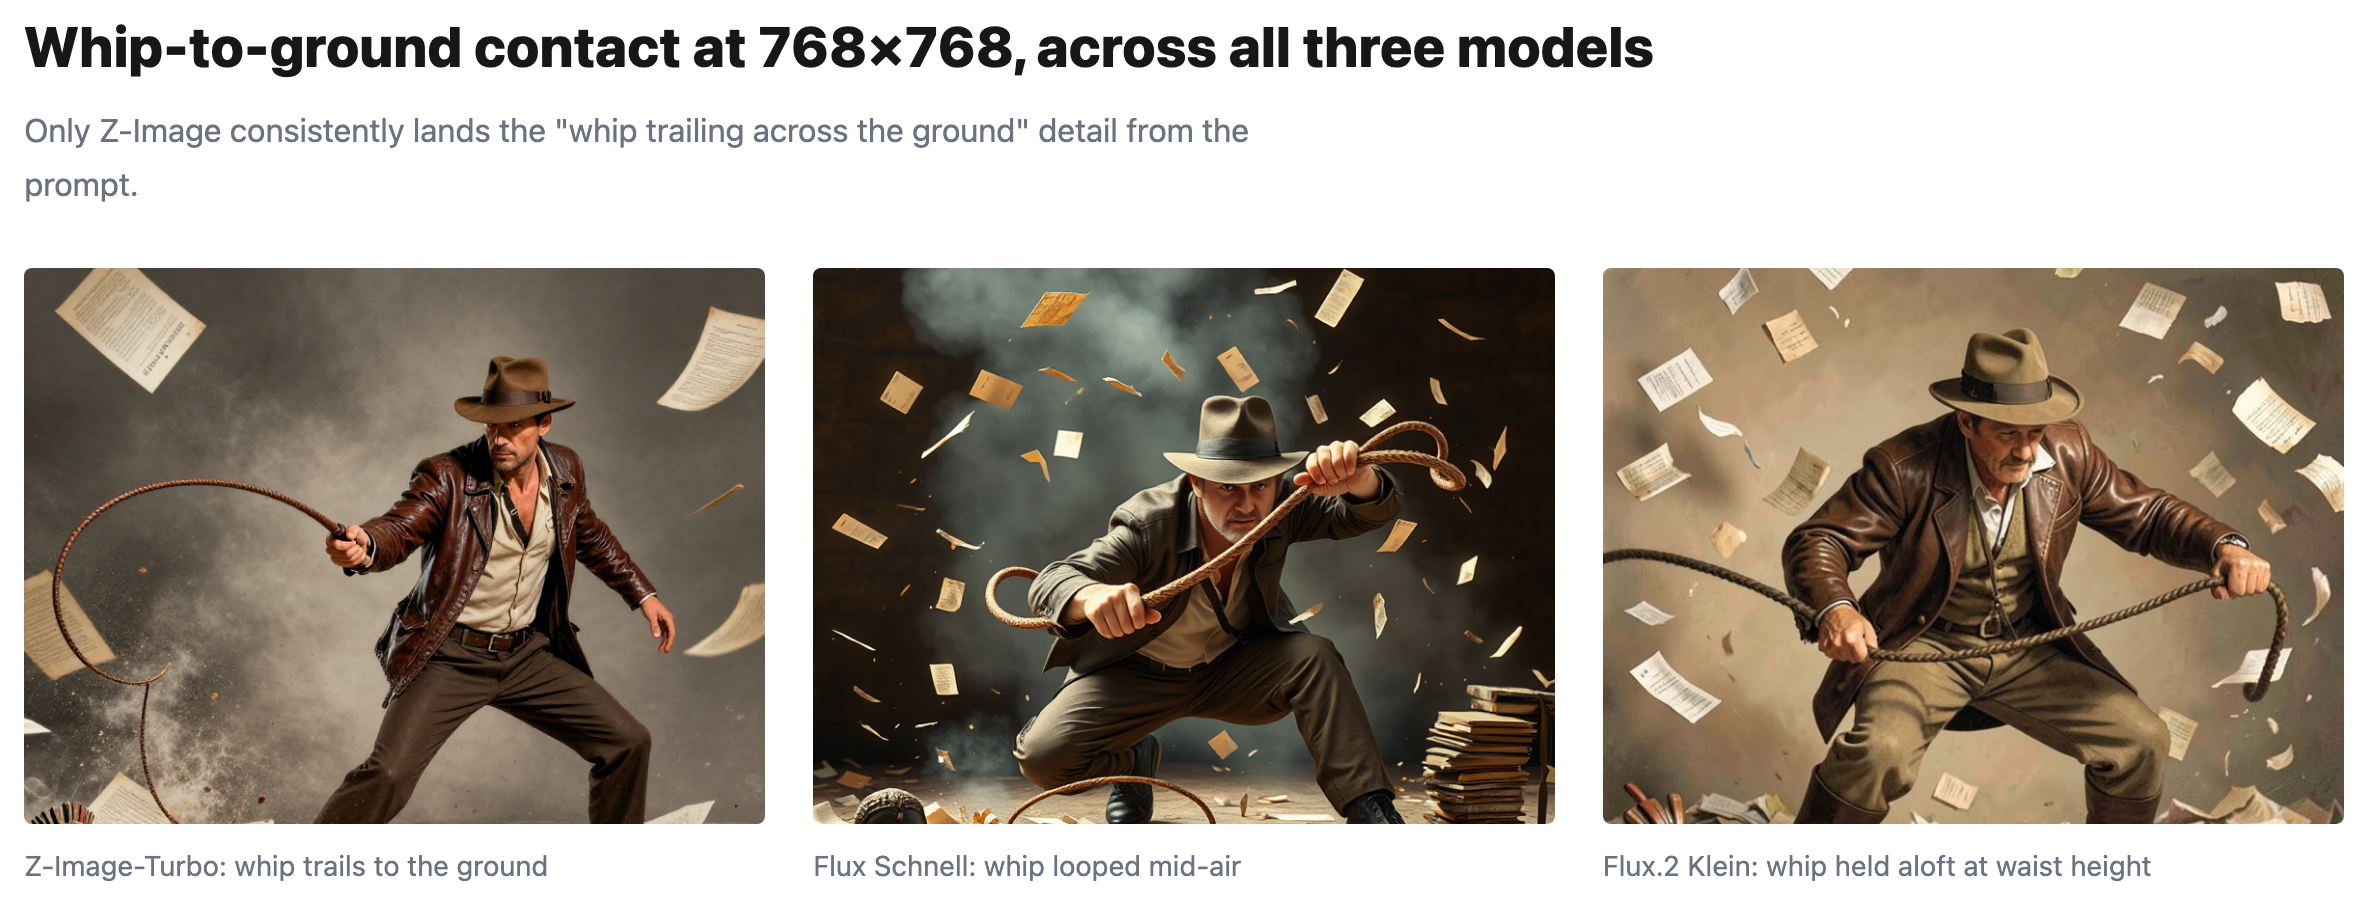
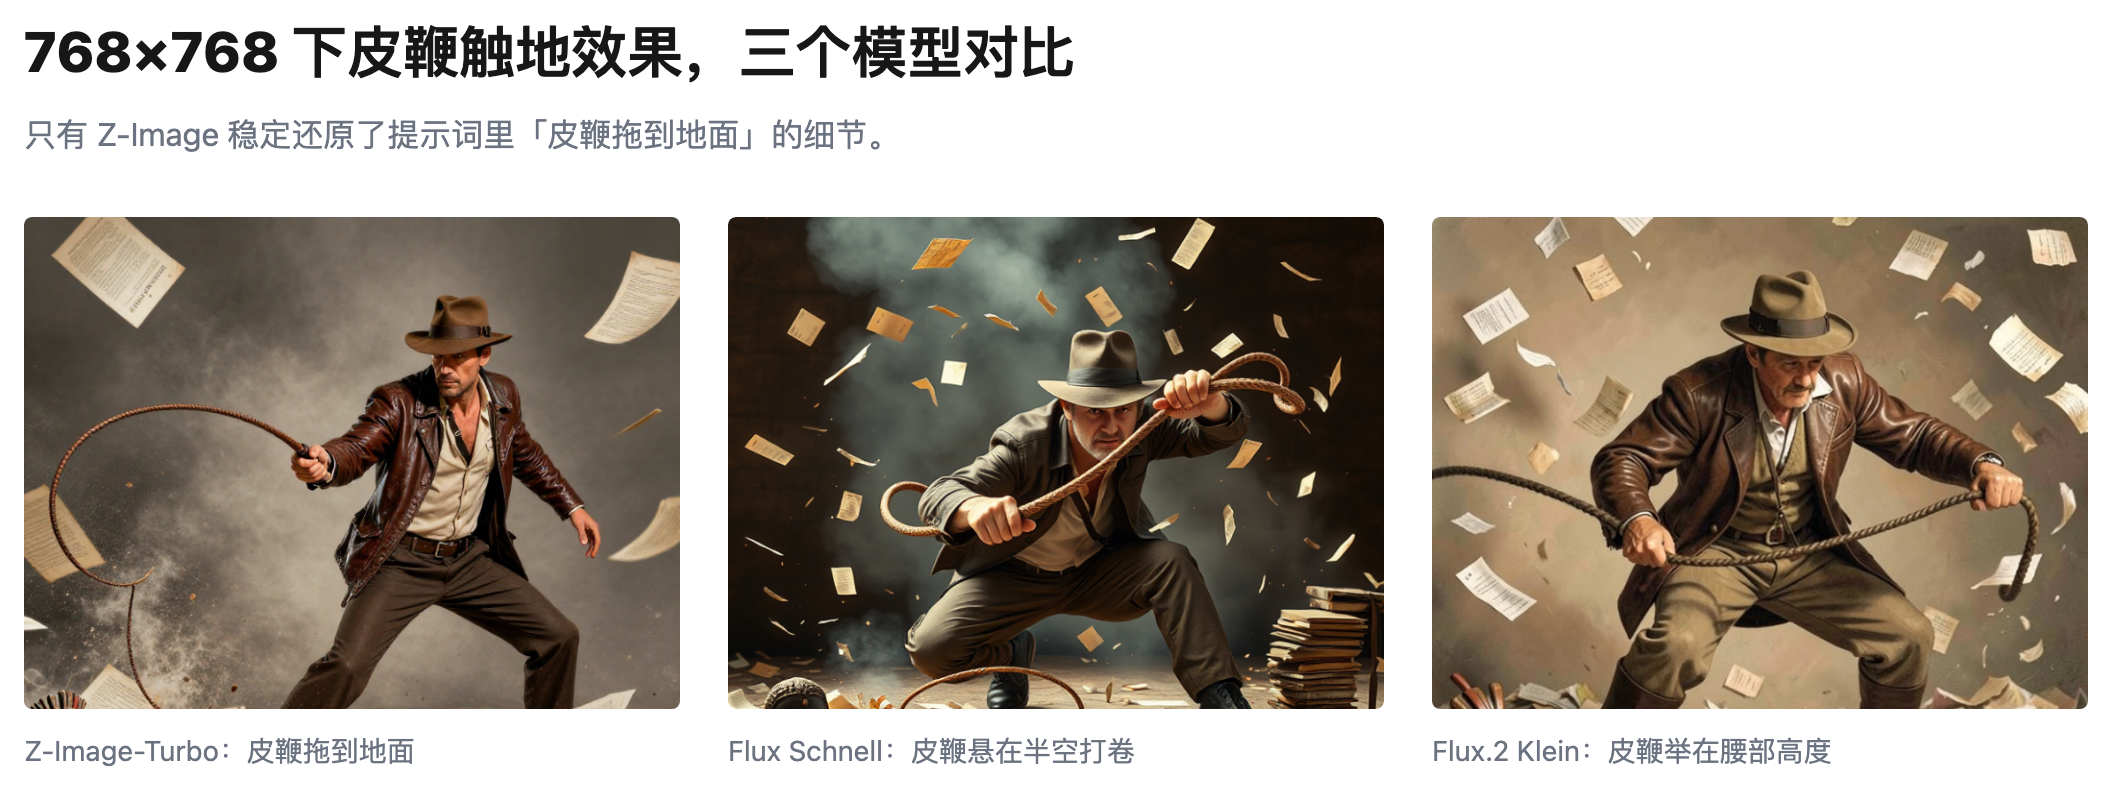
[_gala] 图片网格转中文：speed-quality-grid 和 whip-ground-grid 两张网格图是双语版本时期做的，标题、副标题和 caption 仍是英文，draft.md 已确定只发中文版，文字与正文语言不一致；照片内容原样保留（直接从原图裁出三张对应照片复用），只重新渲染文字部分

diff --git a/articles/resolution-size-sweep/whip-ground-grid.source.html b/articles/resolution-size-sweep/whip-ground-grid.source.html
@@ -1,0 +1,40 @@
+<!doctype html>
+<html lang="zh">
+<head>
+<meta charset="utf-8">
+<style>
+  body{margin:0;font-family:-apple-system,BlinkMacSystemFont,"PingFang SC","Microsoft YaHei","Helvetica Neue",Arial,sans-serif;background:#ffffff;color:#171717;}
+</style>
+</head>
+<body style="display:inline-block">
+<div style="width: 1160px; box-sizing: border-box; background: #ffffff; padding: 64px; display: flex; flex-direction: column; gap: 28px;">
+
+  <div style="display: flex; flex-direction: column; gap: 8px;">
+    <h2 style="margin: 0; font-size: 28px; font-weight: 800; color: #171717;">768×768 下皮鞭触地效果，三个模型对比</h2>
+    <p style="margin: 0; font-size: 16px; color: #6B7280; max-width: 640px; line-height: 1.7;">只有 Z-Image 稳定还原了提示词里「皮鞭拖到地面」的细节。</p>
+  </div>
+
+  <div style="display: grid; grid-template-columns: repeat(3, minmax(0, 1fr)); gap: 24px;">
+    <figure style="margin: 0; display: flex; flex-direction: column; gap: 10px;">
+      <div style="width: 100%; aspect-ratio: 4/3; border-radius: 4px; overflow: hidden;">
+        <img src="file:///private/tmp/claude-501/-Users-husongtao-Projects-newsletters/0a768223-badc-4866-904d-b42b9850581c/scratchpad/gala-src-whip/1-zimage.png" style="width: 100%; height: 100%; object-fit: cover; object-position: top; display: block;">
+      </div>
+      <figcaption style="font-size: 14px; color: #6B7280; line-height: 1.6;">Z-Image-Turbo：皮鞭拖到地面</figcaption>
+    </figure>
+    <figure style="margin: 0; display: flex; flex-direction: column; gap: 10px;">
+      <div style="width: 100%; aspect-ratio: 4/3; border-radius: 4px; overflow: hidden;">
+        <img src="file:///private/tmp/claude-501/-Users-husongtao-Projects-newsletters/0a768223-badc-4866-904d-b42b9850581c/scratchpad/gala-src-whip/2-schnell.png" style="width: 100%; height: 100%; object-fit: cover; object-position: top; display: block;">
+      </div>
+      <figcaption style="font-size: 14px; color: #6B7280; line-height: 1.6;">Flux Schnell：皮鞭悬在半空打卷</figcaption>
+    </figure>
+    <figure style="margin: 0; display: flex; flex-direction: column; gap: 10px;">
+      <div style="width: 100%; aspect-ratio: 4/3; border-radius: 4px; overflow: hidden;">
+        <img src="file:///private/tmp/claude-501/-Users-husongtao-Projects-newsletters/0a768223-badc-4866-904d-b42b9850581c/scratchpad/gala-src-whip/3-klein.png" style="width: 100%; height: 100%; object-fit: cover; object-position: top; display: block;">
+      </div>
+      <figcaption style="font-size: 14px; color: #6B7280; line-height: 1.6;">Flux.2 Klein：皮鞭举在腰部高度</figcaption>
+    </figure>
+  </div>
+
+</div>
+</body>
+</html>

diff --git a/articles/resolution-size-sweep/speed-quality-grid.source.html b/articles/resolution-size-sweep/speed-quality-grid.source.html
@@ -1,0 +1,40 @@
+<!doctype html>
+<html lang="zh">
+<head>
+<meta charset="utf-8">
+<style>
+  body{margin:0;font-family:-apple-system,BlinkMacSystemFont,"PingFang SC","Microsoft YaHei","Helvetica Neue",Arial,sans-serif;background:#ffffff;color:#171717;}
+</style>
+</head>
+<body style="display:inline-block">
+<div style="width: 1160px; box-sizing: border-box; background: #ffffff; padding: 64px; display: flex; flex-direction: column; gap: 28px;">
+
+  <div style="display: flex; flex-direction: column; gap: 8px;">
+    <h2 style="margin: 0; font-size: 28px; font-weight: 800; color: #171717;">同一提示词，1024×1024，Klein 最快但不是最柔和</h2>
+    <p style="margin: 0; font-size: 16px; color: #6B7280; max-width: 640px; line-height: 1.7;">Klein 用了 Z-Image 三分之一的耗时，得分只差一分。</p>
+  </div>
+
+  <div style="display: grid; grid-template-columns: repeat(3, minmax(0, 1fr)); gap: 24px;">
+    <figure style="margin: 0; display: flex; flex-direction: column; gap: 10px;">
+      <div style="width: 100%; aspect-ratio: 4/3; border-radius: 4px; overflow: hidden;">
+        <img src="file:///private/tmp/claude-501/-Users-husongtao-Projects-newsletters/0a768223-badc-4866-904d-b42b9850581c/scratchpad/gala-src-speed/1-zimage.png" style="width: 100%; height: 100%; object-fit: cover; object-position: top; display: block;">
+      </div>
+      <figcaption style="font-size: 14px; color: #6B7280; line-height: 1.6;">Z-Image-Turbo — 205.5s，得分 9</figcaption>
+    </figure>
+    <figure style="margin: 0; display: flex; flex-direction: column; gap: 10px;">
+      <div style="width: 100%; aspect-ratio: 4/3; border-radius: 4px; overflow: hidden;">
+        <img src="file:///private/tmp/claude-501/-Users-husongtao-Projects-newsletters/0a768223-badc-4866-904d-b42b9850581c/scratchpad/gala-src-speed/2-schnell.png" style="width: 100%; height: 100%; object-fit: cover; object-position: top; display: block;">
+      </div>
+      <figcaption style="font-size: 14px; color: #6B7280; line-height: 1.6;">Flux Schnell — 134.8s，得分 7</figcaption>
+    </figure>
+    <figure style="margin: 0; display: flex; flex-direction: column; gap: 10px;">
+      <div style="width: 100%; aspect-ratio: 4/3; border-radius: 4px; overflow: hidden;">
+        <img src="file:///private/tmp/claude-501/-Users-husongtao-Projects-newsletters/0a768223-badc-4866-904d-b42b9850581c/scratchpad/gala-src-speed/3-klein.png" style="width: 100%; height: 100%; object-fit: cover; object-position: top; display: block;">
+      </div>
+      <figcaption style="font-size: 14px; color: #6B7280; line-height: 1.6;">Flux.2 Klein — 59.8s，得分 8</figcaption>
+    </figure>
+  </div>
+
+</div>
+</body>
+</html>
